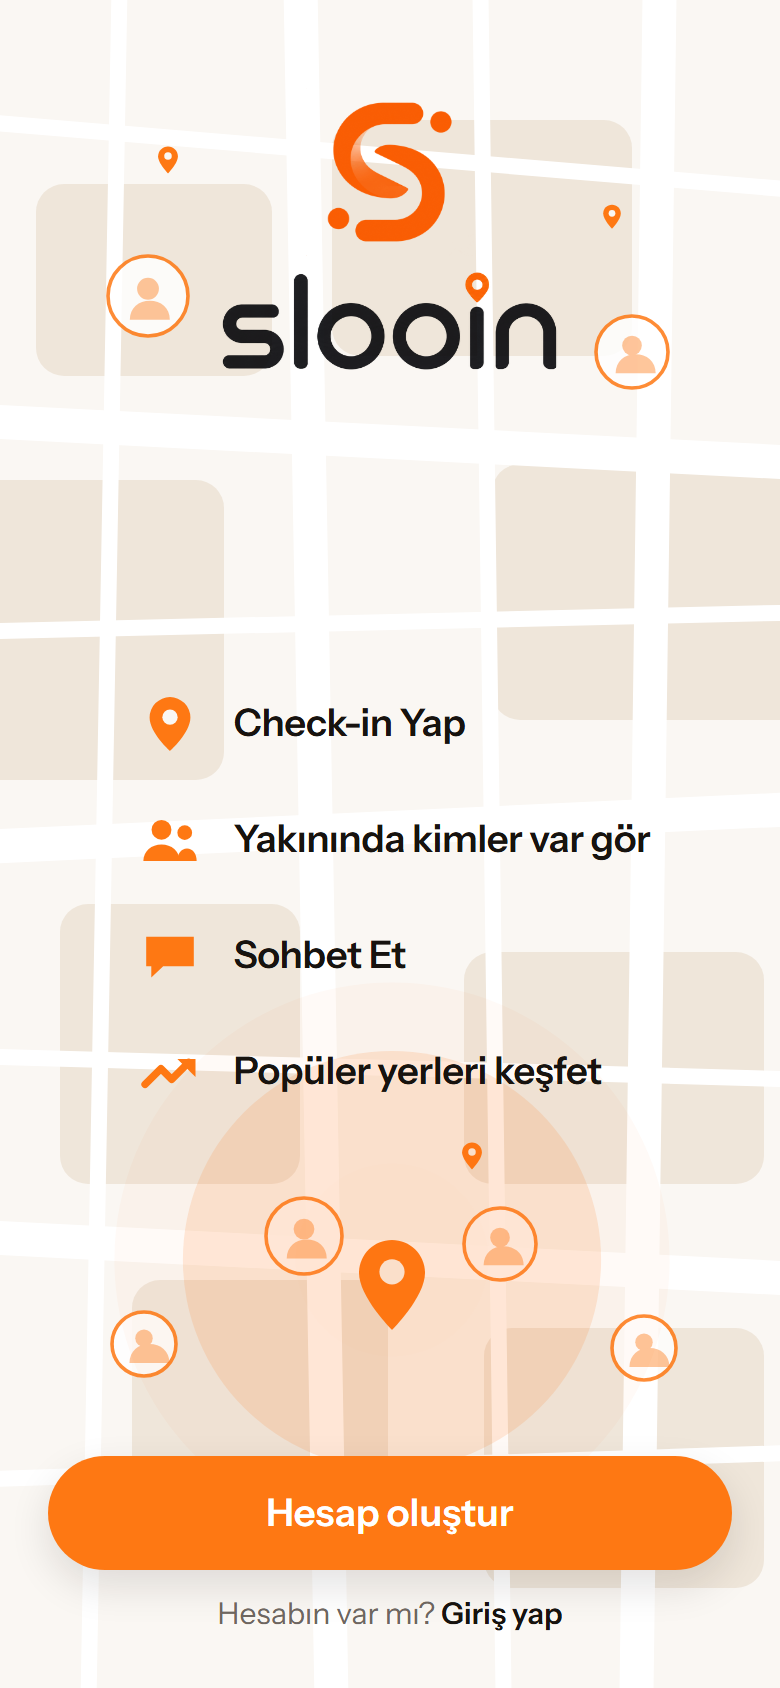
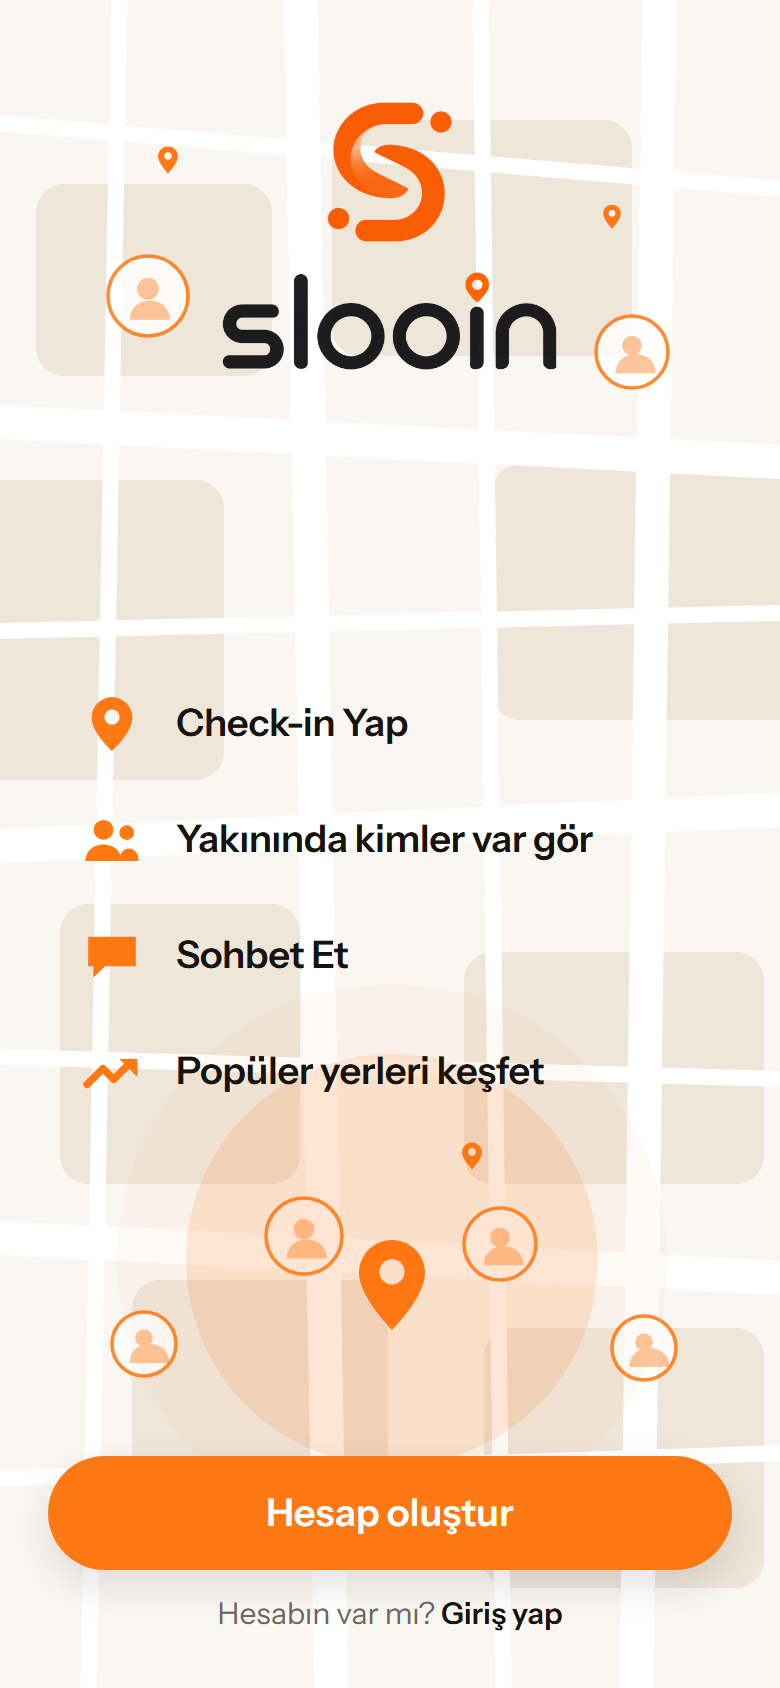
feat(tasarim): acilis tanitim blogu biraz sola kaydirildi
Kullanicinin karari (2026-08-26): 'Cok ortada kaldi, biraz sola yakin
baslasin basliklar.' Blok tam ortalanmis halde ~54 px'ten basliyordu;
artik sola dayali ve 12 px pay birakiyor, yani 36 px'ten basliyor.
Satirlarin kendi icindeki hizalama degismedi - ikonlar ve basliklar
hala ayni noktadan basliyor.

Claude-Session: https://claude.ai/code/session_01SQufqcU23xe75Xi6GJtkNa

diff --git a/mobil/src/app/(auth)/karsilama.tsx b/mobil/src/app/(auth)/karsilama.tsx
@@ -193,7 +193,13 @@ const stiller = StyleSheet.create({
     // tek ortalamak basliklarin baslangic noktasini kaydiriyor ve
     // sutun hissi kayboluyordu; blogu ortalayip icini hizali tutmak
     // ikisini birden veriyor.
-    alignSelf: 'center',
+    //
+    // Blok TAM ORTADA DEGIL, biraz sola yakin (kullanicinin karari
+    // 2026-08-26: "cok ortada kaldi, biraz sola yakin baslasin").
+    // Sola dayanip kucuk bir pay birakiyor: sayfa payi 24, buraya 12
+    // daha ekleniyor. Tam ortada ~54 px'ten basliyordu.
+    alignSelf: 'flex-start',
+    marginLeft: bosluk.m,
   },
   adim: { flexDirection: 'row', alignItems: 'center', gap: bosluk.m },
   // Sabit genislik: ikonlarin genisligi farkli, sutun bundan
